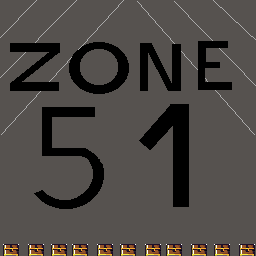
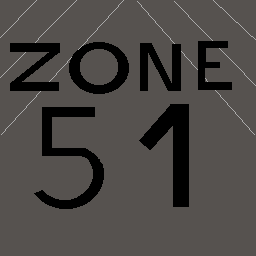
[FIX] fix assets

Changed region(s): [[0.5625, 0.9375, 1.0, 1.0], [0.0, 0.9375, 0.3438, 1.0], [0.375, 0.9375, 0.5312, 1.0]]

diff --git a/main.py b/main.py
@@ -93,10 +93,10 @@ def main():
         "zombies": AnimatedSprite(["assets/zombie_sprite_1.png", "assets/zombie_sprite_2.png"], 3),
         "voleur": AnimatedSprite(["assets/voleur.png", "assets/voleur_2.png", "assets/voleur_3.png"], 3),
         "voleur_crowbar": AnimatedSprite(["assets/voleur_crowbar.png", "assets/voleur_crowbar_2.png", "assets/voleur_crowbar_3.png"], 3),
-        "coffre1": AnimatedSprite(["assets/chest_front.png", "assets/zombies.png"], 1),
-        "coffre2": AnimatedSprite(["assets/chest_front.png", "assets/zombies.png"], 1/2),
-        "coffre3": AnimatedSprite(["assets/chest_front.png", "assets/zombies.png"], 1/3),
-        "coffre4": AnimatedSprite(["assets/chest_front.png", "assets/zombies.png"], 1/4),
+        "coffre1": AnimatedSprite(["assets/chest_front.png", "assets/chest_open_16x.png"], 1),
+        "coffre2": AnimatedSprite(["assets/chest_front.png", "assets/chest_open_16x.png"], 1/2),
+        "coffre3": AnimatedSprite(["assets/chest_front.png", "assets/chest_open_16x.png"], 1/3),
+        "coffre4": AnimatedSprite(["assets/chest_front.png", "assets/chest_open_16x.png"], 1/4),
     }
     if isinstance(elem["first_room"], Map):
         elem["first_room"].collisions = [pygame.Rect(-200, -200, 2000, 2000)]
